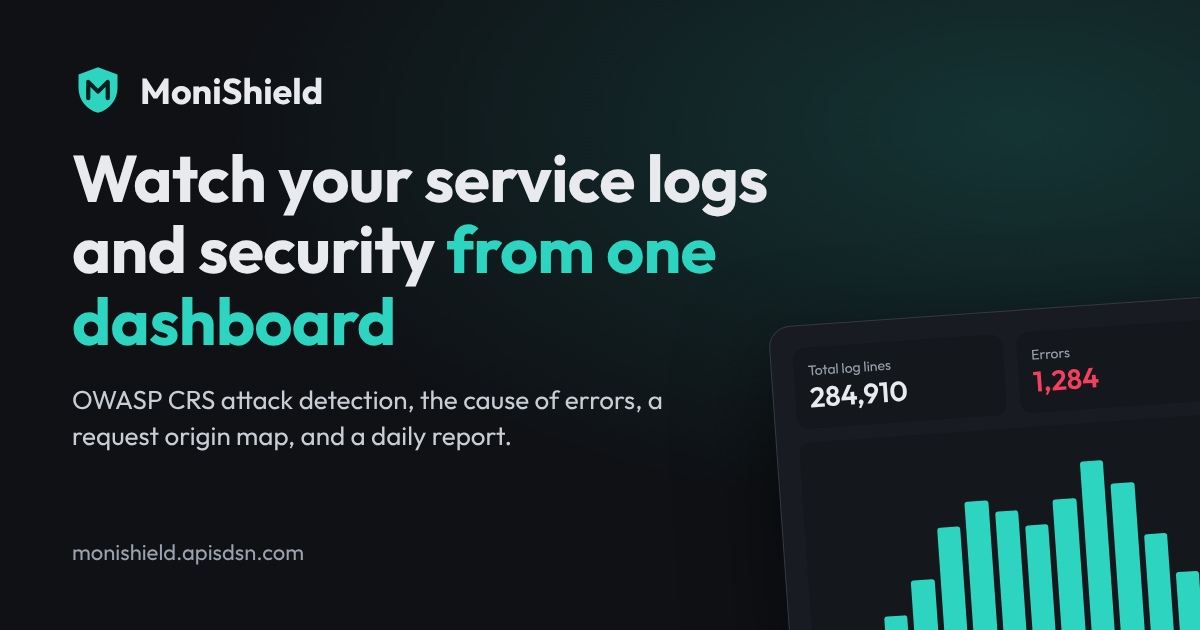
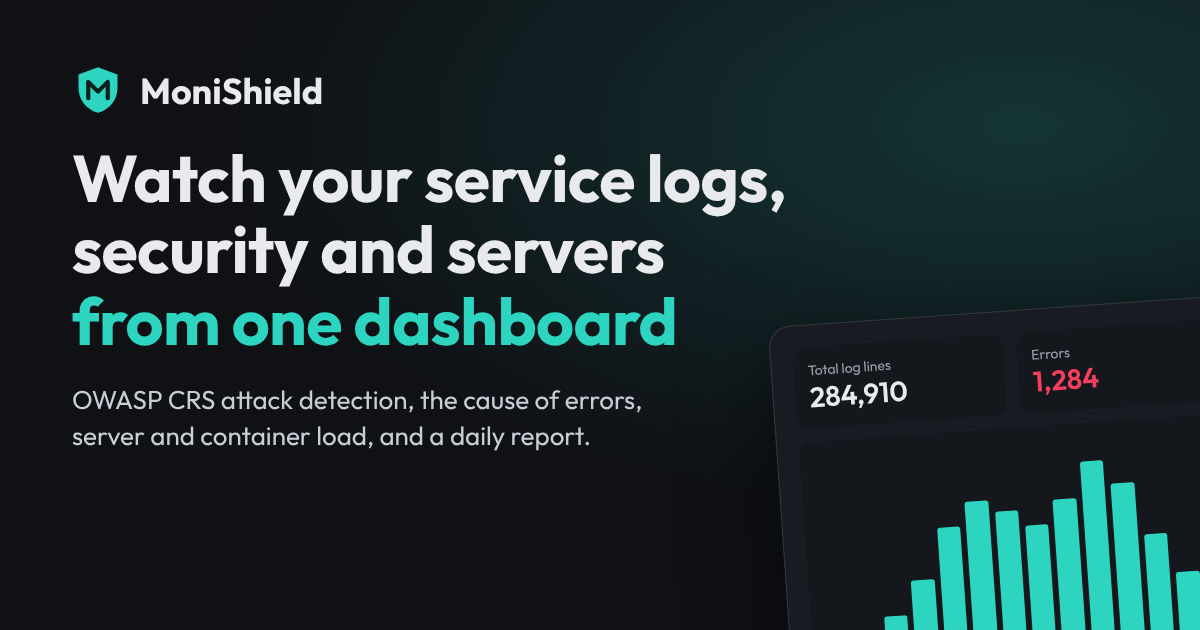
feat(web): link preview text and images mention servers

diff --git a/monishield/interfaces/api/home_meta.py b/monishield/interfaces/api/home_meta.py
@@ -5,14 +5,14 @@ the client asks for, else Indonesian. The texts are UI copy, so they are kept in
 import html
 
 TEXT = {
-    'id': dict(title='MoniShield · Monitoring log & keamanan', locale='id_ID',
-               description='Pantau log dan keamanan layanan dari satu dashboard: deteksi serangan, akar masalah error, '
-                           'peta asal request, dan laporan harian.',
-               alt='MoniShield: pantau log dan keamanan layanan dari satu dashboard'),
-    'en': dict(title='MoniShield · Log & security monitoring', locale='en_US',
-               description="Watch your services' logs and security from one dashboard: attack detection, the cause of errors, "
-                           'a request origin map, and a daily report.',
-               alt='MoniShield: watch your service logs and security from one dashboard'),
+    'id': dict(title='MoniShield · Monitoring log, keamanan & server', locale='id_ID',
+               description='Pantau log layanan, keamanan, dan server dari satu dashboard: deteksi serangan, akar masalah error, '
+                           'CPU dan memori server serta container, peta asal request, dan laporan harian.',
+               alt='MoniShield: pantau log layanan, keamanan, dan server dari satu dashboard'),
+    'en': dict(title='MoniShield · Log, security & server monitoring', locale='en_US',
+               description="Watch your services' logs, security and servers from one dashboard: attack detection, the cause of errors, "
+                           'CPU and memory of servers and containers, a request origin map, and a daily report.',
+               alt='MoniShield: watch your service logs, security and servers from one dashboard'),
 }
 
 

diff --git a/tests/test_home_meta.py b/tests/test_home_meta.py
@@ -14,12 +14,12 @@ def test_language_follows_the_link_then_the_client():
 
 def test_tags_per_language():
     en = home_meta.render(PAGE, 'en', 'https://monishield.example.com')
-    assert '<html lang="en"' in en and '<title>MoniShield · Log &amp; security monitoring</title>' in en
+    assert '<html lang="en"' in en and '<title>MoniShield · Log, security &amp; server monitoring</title>' in en
     assert '<meta property="og:image" content="https://monishield.example.com/og-en.png" />' in en
     assert '<meta property="og:url" content="https://monishield.example.com/?lang=en" />' in en
     assert 'og:locale" content="en_US"' in en and 'og:locale:alternate" content="id_ID"' in en and 'summary_large_image' in en
     idn = home_meta.render(PAGE, 'id', 'https://monishield.example.com')
-    assert '<html lang="id"' in idn and 'og-id.png' in idn and 'Pantau log dan keamanan layanan' in idn and 'hreflang="en"' in idn
+    assert '<html lang="id"' in idn and 'og-id.png' in idn and 'Pantau log layanan, keamanan, dan server' in idn and 'hreflang="en"' in idn
     assert idn.count('</head>') == 1
 
 
